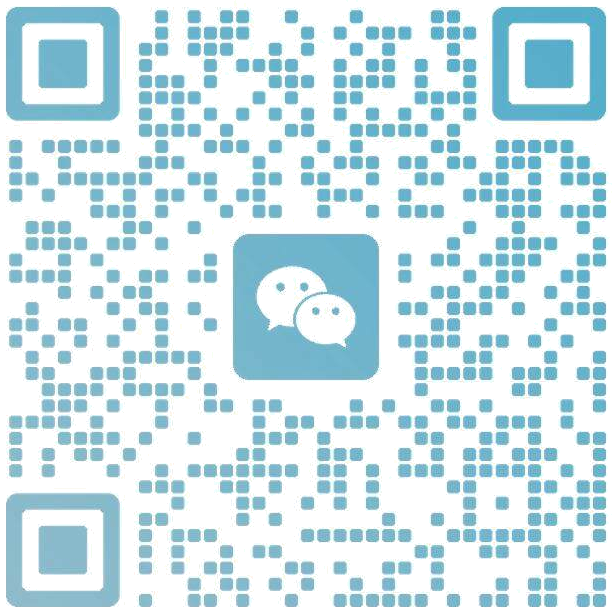
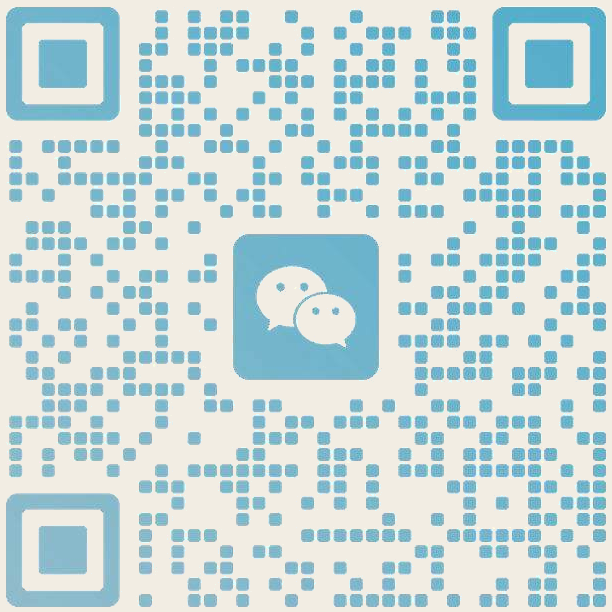
fix(ui): improve text selection contrast on light backgrounds
Enter-Save-Attempt: 0827fc4a-4365-4289-b48b-b37abdc27746

diff --git a/src/index.css b/src/index.css
@@ -95,7 +95,7 @@
 
   /* Light surfaces invert their selected text to white. */
   .on-light {
-    --selection-foreground: 0 0% 100%;
+    --selection-foreground: 38 38% 92%;
   }
 }
 
